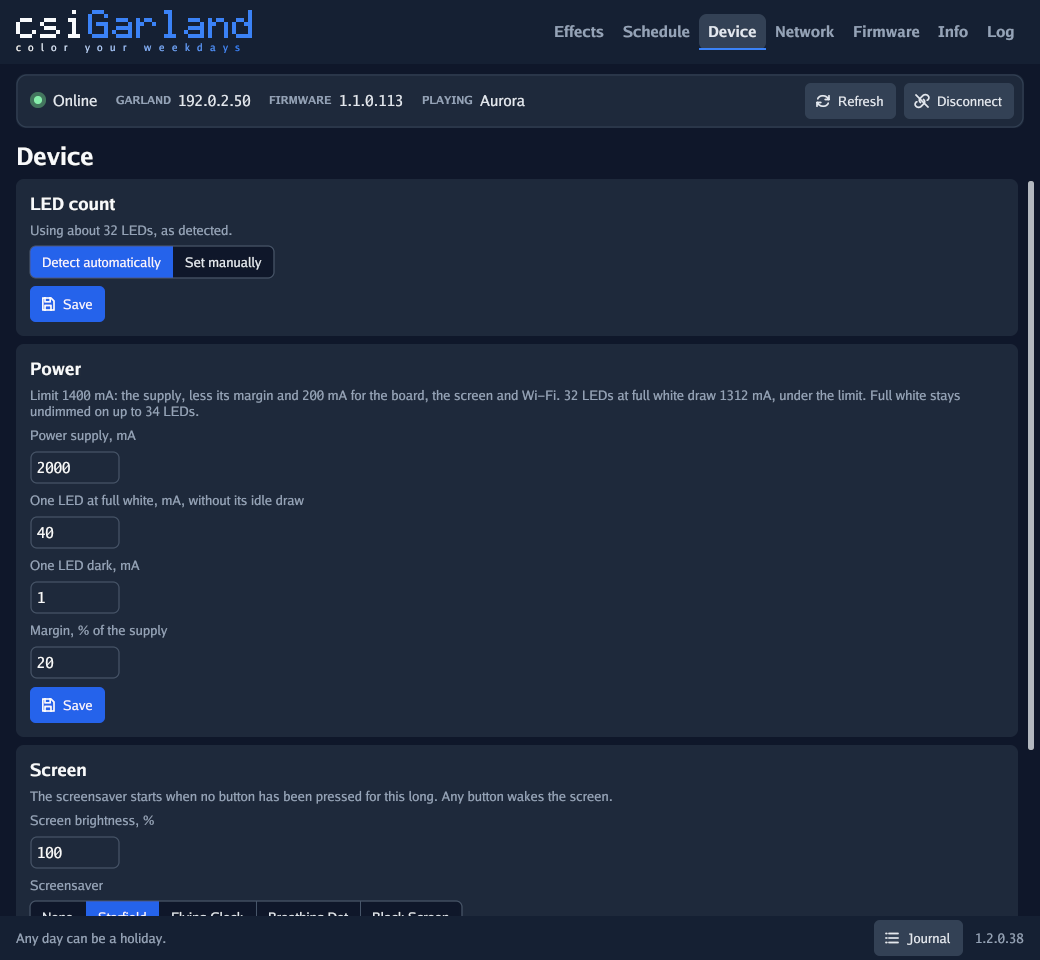
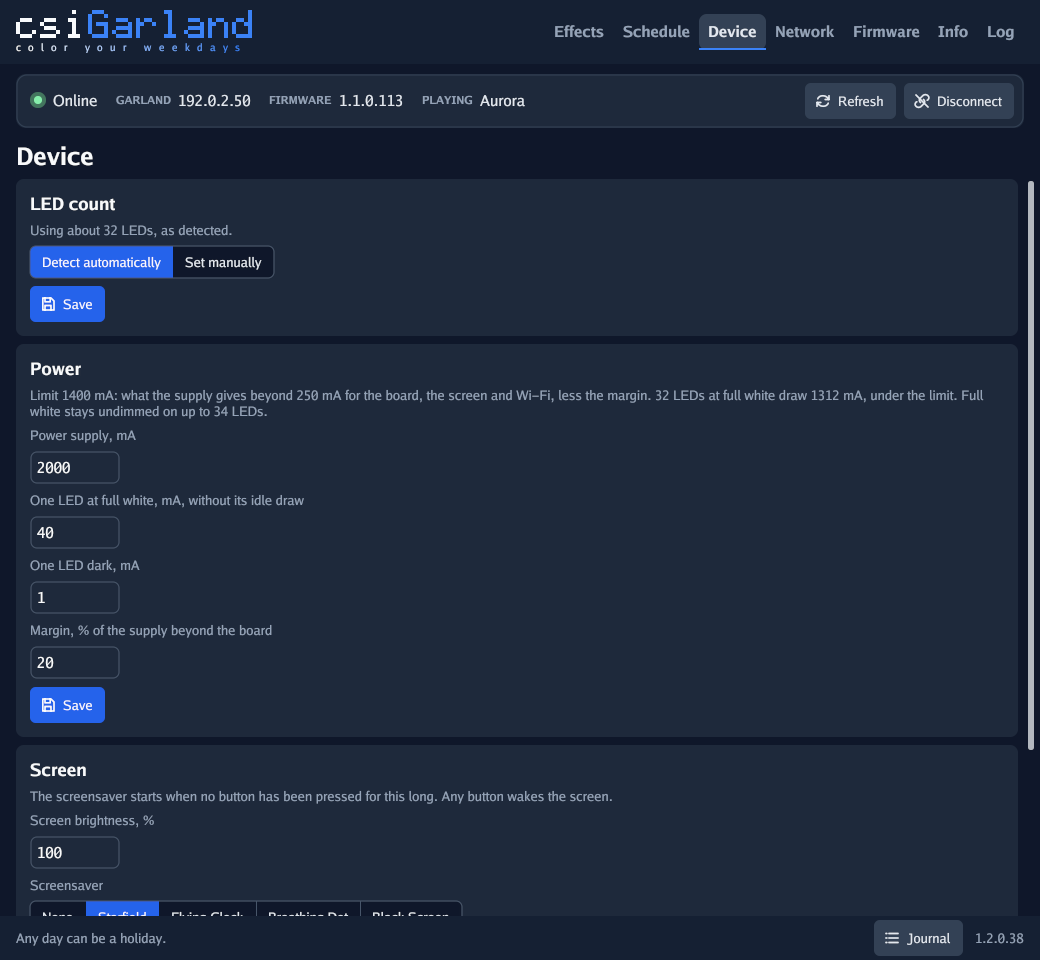
fix(firmware): take the margin from what the supply gives beyond the board
The owner's rule: the margin is a share of the supply less the board's own
draw, not of the whole supply with the board taken off afterwards. The
limit is (supply - 250 mA) * (100 - margin) / 100, so the margin always
stands between the LEDs and what is left for them. The board's reserve is
250 mA, its peak by the specification, and the defaults still give
1400 mA, (2000 - 250) * 80 %. At 5 % the limit is 1662 mA, with ~88 mA
left over the board's peak.

The firmware's base is 1.2.0, the release the power settings come with.

Changed region(s): [[0.0308, 0.4062, 0.9538, 0.4375]]

diff --git a/site/ru/roadmap.html b/site/ru/roadmap.html
@@ -82,7 +82,7 @@
     <section class="section">
       <h2 data-i18n="roadmap.planned.title">Запланировано</h2>
       <div class="grid">
-        <div class="card"><h3 data-i18n="roadmap.p2.title">Лимит тока под ваш блок питания</h3><p data-i18n="roadmap.p2.body">Готово для следующей прошивки: на странице Device задаются ток блока питания, ток одного светодиода на полном белом и в простое и запас от 5 до 20 %, а прошивка считает лимит и сколько светодиодов горят белым без притушения. Замер показал 36 мА на светодиод вместо 55 мА, которые закладывала прошивка, так что вся гирлянда на белом больше не притушивается зря. По умолчанию лимит остается 1400 мА.</p></div>
+        <div class="card"><h3 data-i18n="roadmap.p2.title">Лимит тока под ваш блок питания</h3><p data-i18n="roadmap.p2.body">Готово для следующей прошивки: на странице Device задаются ток блока питания, ток одного светодиода на полном белом и в простое и запас от 5 до 20 % от того, что блок питания дает сверх платы, а прошивка считает лимит и сколько светодиодов горят белым без притушения. Замер показал 36 мА на светодиод вместо 55 мА, которые закладывала прошивка, так что вся гирлянда на белом больше не притушивается зря. По умолчанию лимит остается 1400 мА.</p></div>
         <div class="card"><h3 data-i18n="roadmap.p1.title">Новые платформы</h3><p data-i18n="roadmap.p1.body">Версии утилиты для Android и iOS на общей кодовой базе Go и едином публичном API.</p></div>
       </div>
     </section>

diff --git a/site/roadmap.html b/site/roadmap.html
@@ -81,7 +81,7 @@
     <section class="section">
       <h2 data-i18n="roadmap.planned.title">Planned</h2>
       <div class="grid">
-        <div class="card"><h3 data-i18n="roadmap.p2.title">A current limit for your supply</h3><p data-i18n="roadmap.p2.body">Done, for the next firmware: the Device page takes your power supply, what one LED draws at full white and dark, and a margin of 5 to 20 %, and works out the limit and how many LEDs show full white undimmed. One LED measured 36 mA where the firmware counted 55, so the full garland on white is no longer dimmed for nothing. The defaults keep the 1400 mA limit.</p></div>
+        <div class="card"><h3 data-i18n="roadmap.p2.title">A current limit for your supply</h3><p data-i18n="roadmap.p2.body">Done, for the next firmware: the Device page takes your power supply, what one LED draws at full white and dark, and a margin of 5 to 20 % of what the supply gives beyond the board, and works out the limit and how many LEDs show full white undimmed. One LED measured 36 mA where the firmware counted 55, so the full garland on white is no longer dimmed for nothing. The defaults keep the 1400 mA limit.</p></div>
         <div class="card"><h3 data-i18n="roadmap.p1.title">More platforms</h3><p data-i18n="roadmap.p1.body">The utility on Android and iOS, on the same Go code and the same public API.</p></div>
       </div>
     </section>

diff --git a/firmware/app/src/portal_page_device.h b/firmware/app/src/portal_page_device.h
@@ -26,7 +26,7 @@ inline constexpr char kPageDevice[] = R"html(
 
 <section aria-labelledby="power-title">
   <h2 id="power-title">Power</h2>
-  <p class="m">A frame that would draw more than the limit is dimmed as a whole. The limit is the supply, less its margin and <span id="board">200</span> mA for the board, the screen and Wi-Fi.</p>
+  <p class="m">A frame that would draw more than the limit is dimmed as a whole. The limit is what the supply gives beyond <span id="board">250</span> mA for the board, the screen and Wi-Fi, less the margin, a share of that.</p>
   <form id="power-form">
     <label for="supply" class="h">Power supply, mA</label>
     <input type="number" id="supply" step="1" inputmode="numeric" required>
@@ -34,7 +34,7 @@ inline constexpr char kPageDevice[] = R"html(
     <input type="number" id="white" step="1" inputmode="numeric" required>
     <label for="idle" class="h g">One LED dark, mA</label>
     <input type="number" id="idle" step="1" inputmode="numeric" required>
-    <label for="margin" class="h g">Margin, % of the supply</label>
+    <label for="margin" class="h g">Margin, % of the supply beyond the board</label>
     <input type="number" id="margin" step="1" inputmode="numeric" required>
     <p class="m g" id="budget" aria-live="polite"></p>
     <button data-g="save" type="submit" id="power-save" class="g">Save</button>
@@ -126,7 +126,7 @@ inline constexpr char kPageDevice[] = R"html(
   function budgetText() {
     const [supply, white, idle, margin] = Object.keys(powerFields).map((id) => $(id).valueAsNumber);
     if (!power || ![supply, white, idle, margin].every(Number.isInteger)) return '';
-    const limit = Math.max(0, Math.floor(supply * (100 - margin) / 100) - power.board_ma);
+    const limit = Math.floor(Math.max(0, supply - power.board_ma) * (100 - margin) / 100);
     const peak = power.leds * (white + idle);
     const held = peak > limit ? ', so it is dimmed to the limit' : ', under the limit';
     return `Limit ${limit} mA. ${power.leds} LEDs at full white draw ${peak} mA${held}. Full white stays undimmed on up to ${Math.floor(limit / (white + idle))} LEDs.`;

diff --git a/firmware/app/src/power_model.h b/firmware/app/src/power_model.h
@@ -15,7 +15,7 @@ namespace garland {
 
 // The owner's settings, on the Device page. The defaults are the Hi-Link's 2000 mA, a WS2812B as measured
 // on a garland of this design, 36.1 mA lit above 0.51 mA idle at full white, with room for the spread of a
-// batch, and the margin that gives the 1400 mA limit of the releases before these settings.
+// batch, and the margin that gives the 1400 mA limit of the releases before these settings: (2000 - 250) * 80 %.
 struct PowerSettings {
     uint16_t supply_ma = 2000;
     uint8_t white_ma = 40;  // One LED at full white, above its idle draw.
@@ -33,8 +33,8 @@ constexpr int kLedIdleMaxMa = 5;
 constexpr int kMarginMinPercent = 5;
 constexpr int kMarginMaxPercent = 20;
 // The ESP32-C6, its screen and Wi-Fi, which the same supply feeds beside the LEDs: 120-180 mA typical by
-// the specification, about 250 mA at a peak, which the margin covers. Not measured yet.
-constexpr uint32_t kBoardReserveMa = 200;
+// the specification, about 250 mA at a peak, which is what is kept for it. Not measured yet.
+constexpr uint32_t kBoardReserveMa = 250;
 
 constexpr bool supply_ma_is_valid(int value) {
     return value >= kSupplyMinMa && value <= kSupplyMaxMa;
@@ -57,11 +57,11 @@ constexpr bool power_settings_are_valid(const PowerSettings& s) {
            margin_percent_is_valid(s.margin_percent);
 }
 
-// What the LEDs may draw: the supply, less its margin and the board's own draw. 200 mA at the least, for
-// the smallest supply with the largest margin.
+// What the LEDs may draw: what the supply gives beyond the board's own draw, less the margin, a share of
+// that. 200 mA at the least, for the smallest supply with the largest margin.
 constexpr uint32_t power_limit_ma(const PowerSettings& s) {
-    const uint32_t usable = uint32_t{s.supply_ma} * (100U - s.margin_percent) / 100U;
-    return usable > kBoardReserveMa ? usable - kBoardReserveMa : 0;
+    const uint32_t beyond_board = s.supply_ma > kBoardReserveMa ? s.supply_ma - kBoardReserveMa : 0;
+    return beyond_board * (100U - s.margin_percent) / 100U;
 }
 
 // One LED at full white, its idle draw with it.

diff --git a/firmware/app/test/test_logic/test_power.h b/firmware/app/test/test_logic/test_power.h
@@ -14,7 +14,7 @@
 static void test_power_defaults_keep_the_old_limit() {
     const PowerSettings power;
     TEST_ASSERT_TRUE(power_settings_are_valid(power));
-    // 2000 mA less 20 % and the board's 200 mA.
+    // 2000 mA less the board's 250 mA, and 20 % of what is left.
     TEST_ASSERT_EQUAL_UINT32(1400, power_limit_ma(power));
     TEST_ASSERT_EQUAL_UINT32(41, led_full_ma(power));
     TEST_ASSERT_EQUAL_UINT32(1312, peak_ma(power, 32));
@@ -23,14 +23,15 @@ static void test_power_defaults_keep_the_old_limit() {
 
 static void test_power_limit_follows_the_settings() {
     PowerSettings power;
+    // The margin is a share of what the supply gives beyond the board: 95 % of 1750 mA.
     power.margin_percent = 5;
-    TEST_ASSERT_EQUAL_UINT32(1700, power_limit_ma(power));
+    TEST_ASSERT_EQUAL_UINT32(1662, power_limit_ma(power));
     power.supply_ma = 5000;
     power.margin_percent = 10;
-    TEST_ASSERT_EQUAL_UINT32(4300, power_limit_ma(power));
+    TEST_ASSERT_EQUAL_UINT32(4275, power_limit_ma(power));
     // As measured on the owner's garland: 36 mA lit, under 1 mA idle.
     power.white_ma = 36;
-    TEST_ASSERT_EQUAL_UINT32(116, undimmed_leds(power));
+    TEST_ASSERT_EQUAL_UINT32(115, undimmed_leds(power));
     // The smallest supply with the largest margin still leaves the LEDs some current.
     const PowerSettings small{500, 40, 1, 20};
     TEST_ASSERT_EQUAL_UINT32(200, power_limit_ma(small));
@@ -68,7 +69,7 @@ static void test_state_holds_the_power_budget() {
     const PowerSettings measured{2000, 36, 1, 10};
     state.set_power(measured);
     TEST_ASSERT_TRUE(state.power() == measured);
-    TEST_ASSERT_EQUAL_UINT32(1600, current_model(state.power()).limit_ma);
+    TEST_ASSERT_EQUAL_UINT32(1575, current_model(state.power()).limit_ma);
 }
 
 static void run_power_tests() {

diff --git a/internal/ui/device_power_test.go b/internal/ui/device_power_test.go
@@ -26,12 +26,12 @@ func TestThePowerCardReadsWhatIsTyped(t *testing.T) {
 	if page.power.held {
 		t.Fatal("a garland without power settings has the card")
 	}
-	page.power.take(api.PowerBudget{SupplyMilliamps: 5000, WhiteMilliamps: 36, IdleMilliamps: 1, MarginPercent: 10, BoardMilliamps: 200, LimitMilliamps: 4300, Leds: 32, PeakMilliamps: 1184, UndimmedLeds: 116}, true)
-	if !page.power.held || engine.LimitMilliamps() != 4300 {
+	page.power.take(api.PowerBudget{SupplyMilliamps: 5000, WhiteMilliamps: 36, IdleMilliamps: 1, MarginPercent: 10, BoardMilliamps: 250, LimitMilliamps: 4275, Leds: 32, PeakMilliamps: 1184, UndimmedLeds: 115}, true)
+	if !page.power.held || engine.LimitMilliamps() != 4275 {
 		t.Fatalf("held %v, Tune's limit %d", page.power.held, engine.LimitMilliamps())
 	}
 	words := PowerText(page.power.last)
-	if !strings.Contains(words, "Limit 4300 mA") || !strings.Contains(words, "draw 1184 mA, under the limit") || !strings.Contains(words, "up to 116 LEDs") {
+	if !strings.Contains(words, "Limit 4275 mA") || !strings.Contains(words, "draw 1184 mA, under the limit") || !strings.Contains(words, "up to 115 LEDs") {
 		t.Fatalf("%q", words)
 	}
 	wanted, err := page.power.read()

diff --git a/internal/ui/device_power.go b/internal/ui/device_power.go
@@ -80,7 +80,7 @@ func PowerText(budget api.PowerBudget) string {
 	if budget.PeakMilliamps > budget.LimitMilliamps {
 		held = "so it is dimmed to the limit"
 	}
-	return fmt.Sprintf("Limit %d mA: the supply, less its margin and %d mA for the board, the screen and Wi-Fi. %d LEDs at full white draw %d mA, %s. Full white stays undimmed on up to %d LEDs.",
+	return fmt.Sprintf("Limit %d mA: what the supply gives beyond %d mA for the board, the screen and Wi-Fi, less the margin. %d LEDs at full white draw %d mA, %s. Full white stays undimmed on up to %d LEDs.",
 		budget.LimitMilliamps, budget.BoardMilliamps, budget.Leds, budget.PeakMilliamps, held, budget.UndimmedLeds)
 }
 
@@ -100,7 +100,7 @@ func (f *powerForm) card(a *App) layout.Widget {
 			func(gtx C) D { return a.field(gtx, &f.white, "40", 90) },
 			a.hint("One LED dark, mA"),
 			func(gtx C) D { return a.field(gtx, &f.idle, "1", 90) },
-			a.hint("Margin, % of the supply"),
+			a.hint("Margin, % of the supply beyond the board"),
 			func(gtx C) D { return a.field(gtx, &f.margin, "20", 90) },
 			func(gtx C) D { return a.labelButton(gtx, &f.save, buttonMain, "save", "Save", "", true) },
 		)

diff --git a/internal/api/check_test.go b/internal/api/check_test.go
@@ -27,7 +27,7 @@ func checkedGarland(t *testing.T, version string, answers map[string]string) *Cl
 		"playlist":          `{"effects":[],"dwell":60,"cross_fade":1000,"revision":2}`,
 		"time":              `{"synced":true,"zone":"UTC0"}`,
 		"display":           `{"saver":"starfield"}`,
-		"leds/power":        `{"supply_ma":2000,"led_white_ma":40,"led_idle_ma":1,"margin_percent":20,"board_ma":200,"limit_ma":1400,"leds":32,"peak_ma":1312,"undimmed_leds":34}`,
+		"leds/power":        `{"supply_ma":2000,"led_white_ma":40,"led_idle_ma":1,"margin_percent":20,"board_ma":250,"limit_ma":1400,"leds":32,"peak_ma":1312,"undimmed_leds":34}`,
 		"firmware":          `{"version":"` + version + `"}`,
 		"effects/store":     `{"available":true,"uploaded":0,"max":32,"max_file_bytes":8192}`,
 		"wifi":              `{"configured":true,"connected":true,"setup_network":false,"ssid":"home","ip":"10.0.0.2","hostname":"csigarland"}`,

diff --git a/internal/ui/scenes_test.go b/internal/ui/scenes_test.go
@@ -143,7 +143,7 @@ func sceneApp(t *testing.T, page Page) *App {
 		a.device.mode.Value = "auto"
 		a.device.count.SetText("32")
 		a.device.takeDisplay(api.Display{Saver: "starfield", Delay: 60, ScreenBrightness: 100, SaverBrightness: 30})
-		a.device.power.take(api.PowerBudget{SupplyMilliamps: 2000, WhiteMilliamps: 40, IdleMilliamps: 1, MarginPercent: 20, BoardMilliamps: 200, LimitMilliamps: 1400, Leds: 32, PeakMilliamps: 1312, UndimmedLeds: 34}, true)
+		a.device.power.take(api.PowerBudget{SupplyMilliamps: 2000, WhiteMilliamps: 40, IdleMilliamps: 1, MarginPercent: 20, BoardMilliamps: 250, LimitMilliamps: 1400, Leds: 32, PeakMilliamps: 1312, UndimmedLeds: 34}, true)
 	case PageNetwork:
 		a.network.wifi = api.Wifi{Configured: true, Connected: true, SSID: "Home", IP: "192.0.2.50", Hostname: "csigarland.local"}
 		a.network.rootText = sceneInfo().RootFingerprint

diff --git a/internal/backup/backup_test.go b/internal/backup/backup_test.go
@@ -205,7 +205,7 @@ func TestABackupPutsAnErasedGarlandBack(t *testing.T) {
 // release with them that does not answer fails the backup, as a 1.1.1 garland's 404 does not.
 func TestThePowerSettingsAreKept(t *testing.T) {
 	from := &garland{version: "1.2.0.120", favorites: map[string]bool{"aurora": true}, uploads: map[string]string{}, display: api.Display{Saver: "none"},
-		power: &api.PowerBudget{SupplyMilliamps: 5000, WhiteMilliamps: 36, IdleMilliamps: 1, MarginPercent: 10, LimitMilliamps: 4300, Leds: 32}}
+		power: &api.PowerBudget{SupplyMilliamps: 5000, WhiteMilliamps: 36, IdleMilliamps: 1, MarginPercent: 10, LimitMilliamps: 4275, Leds: 32}}
 	ctx := context.Background()
 	made, err := Collect(ctx, from.serve(t), time.Now())
 	if err != nil {

diff --git a/internal/engine/engine_test.go b/internal/engine/engine_test.go
@@ -210,10 +210,10 @@ func TestTheLimitIsTheFirmwares(t *testing.T) {
 	if defaults != (Power{2000, 40, 1, 20}) || LimitMilliamps() != 1400 {
 		t.Fatalf("defaults %+v, limit %d", defaults, LimitMilliamps())
 	}
-	if err := SetPower(Power{5000, 36, 1, 10}); err != nil || LimitMilliamps() != 4300 {
+	if err := SetPower(Power{5000, 36, 1, 10}); err != nil || LimitMilliamps() != 4275 {
 		t.Fatalf("%v, limit %d", err, LimitMilliamps())
 	}
-	if err := SetPower(Power{5000, 36, 1, 30}); err == nil || LimitMilliamps() != 4300 {
+	if err := SetPower(Power{5000, 36, 1, 30}); err == nil || LimitMilliamps() != 4275 {
 		t.Fatalf("a margin of 30%% taken: %v, limit %d", err, LimitMilliamps())
 	}
 }

diff --git a/internal/ui/tune_current_test.go b/internal/ui/tune_current_test.go
@@ -66,7 +66,7 @@ func TestTuneChartsTheEffectsCurrent(t *testing.T) {
 	if low := ScaleCurrents(chart.full, engine.BrightnessShare(25), engine.IdleMilliamps(previewLeds)); low[0] >= engine.LimitMilliamps() {
 		t.Fatalf("at 25%% white still draws %d mA", low[0])
 	}
-	budget := api.PowerBudget{SupplyMilliamps: 5000, WhiteMilliamps: 36, IdleMilliamps: 1, MarginPercent: 10, LimitMilliamps: 4300}
+	budget := api.PowerBudget{SupplyMilliamps: 5000, WhiteMilliamps: 36, IdleMilliamps: 1, MarginPercent: 10, LimitMilliamps: 4275}
 	if enginePower(budget) != (engine.Power{SupplyMilliamps: 5000, WhiteMilliamps: 36, IdleMilliamps: 1, MarginPercent: 10}) {
 		t.Fatalf("%+v", enginePower(budget))
 	}
